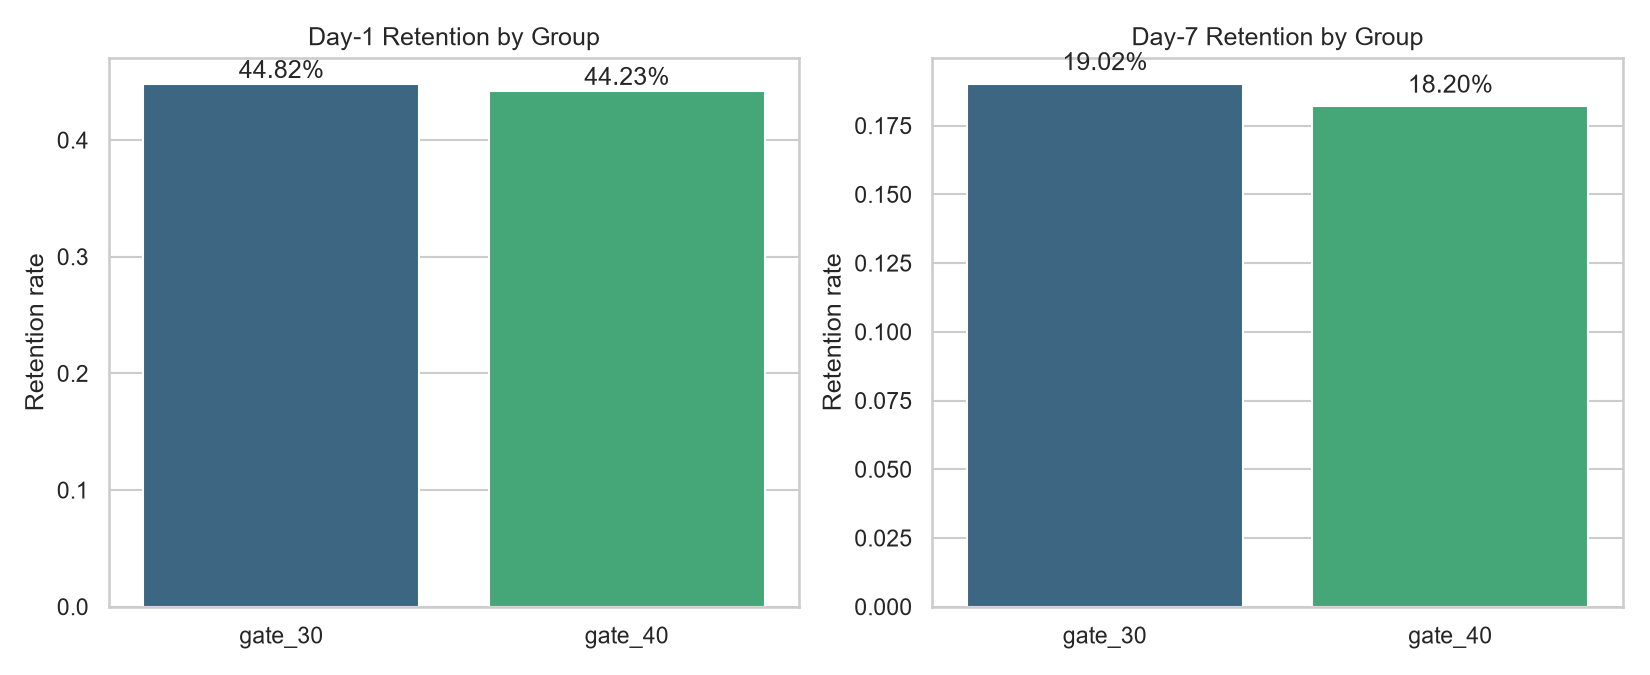
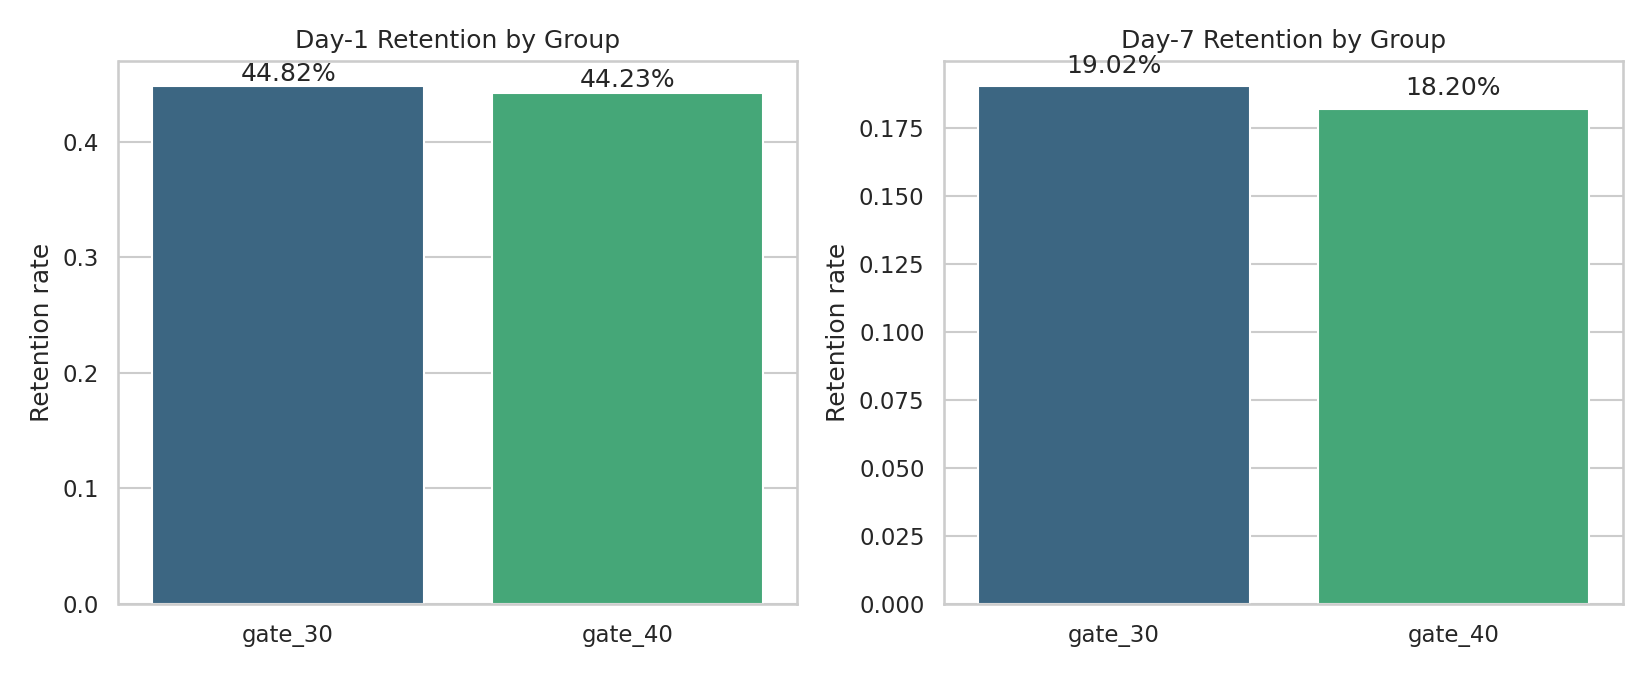
Update README with real results and executed notebook

diff --git a/README.md b/README.md
@@ -85,13 +85,42 @@ shows up in a subgroup.
 
 ## Results
 
-*(Fill in after running the notebook + modules on the real dataset —
-see below for how.)*
+Run on the full dataset (n=90,189: 44,700 in `gate_30`, 45,489 in `gate_40`).
 
-| Metric | gate_30 | gate_40 | Diff | p-value | P(B>A) |
+| Metric | gate_30 | gate_40 | Diff (B−A) | z-test p-value | Bayesian P(gate_40 > gate_30) |
 |---|---|---|---|---|---|
-| Day-1 retention | — | — | — | — | — |
-| Day-7 retention | — | — | — | — | — |
+| Day-1 retention | 44.82% | 44.23% | −0.59 pp | 0.074 (not significant) | 3.8% |
+| Day-7 retention | 19.02% | 18.20% | −0.82 pp | 0.0016 (significant) | 0.08% |
+
+**Bottom line:** moving the gate from level 30 to level 40 did **not** improve
+retention — if anything, it modestly *hurt* Day-7 retention, and the
+frequentist and Bayesian analyses agree closely on this. Day-1 retention
+shows the same direction of effect but doesn't clear the conventional
+significance threshold on its own. Given this, recommendation would be to
+**keep the gate at level 30** rather than move it to 40.
+
+A methodological side-note: the chi-square balance check in the EDA notebook
+returns p≈0.0086 (i.e. "significant" at α=0.05) for the 44.96%/50.44% split.
+With n=90k, even a sub-1-point deviation from an exact 50/50 split clears
+that bar — this is a known quirk of this specific dataset, not evidence that
+randomization was broken.
+
+### Segment analysis findings
+
+- **By engagement level** (casual/regular/hardcore): the Day-7 effect is
+  concentrated in **regular and hardcore** players (both significant, gate_40
+  worse); the **casual** segment shows no significant difference. This makes
+  intuitive sense — casual players who barely play any rounds are unlikely to
+  be affected by a gate at level 30 *or* 40.
+- **By approximate "reached the gate" status**: this segment shows gate_40
+  *outperforming* gate_30 in both sub-groups — the opposite direction of the
+  overall effect. This is expected and is exactly the post-treatment
+  conditioning bias flagged in `segment_analysis.py`'s docstring: since
+  `sum_gamerounds` is measured after the gate could already have shaped
+  behavior, conditioning on it changes who ends up in each bucket
+  differently for the two arms. **Don't read this segment's numbers as
+  contradicting the overall (more trustworthy) result** — it's a
+  demonstration of why that caveat matters, not a real finding.
 
 ## How to Run
 
@@ -115,4 +144,5 @@ python src\segment_analysis.py
 ## Tech Stack
 
 Python · pandas · NumPy · SciPy · statsmodels · matplotlib/seaborn · Jupyter
+
 
